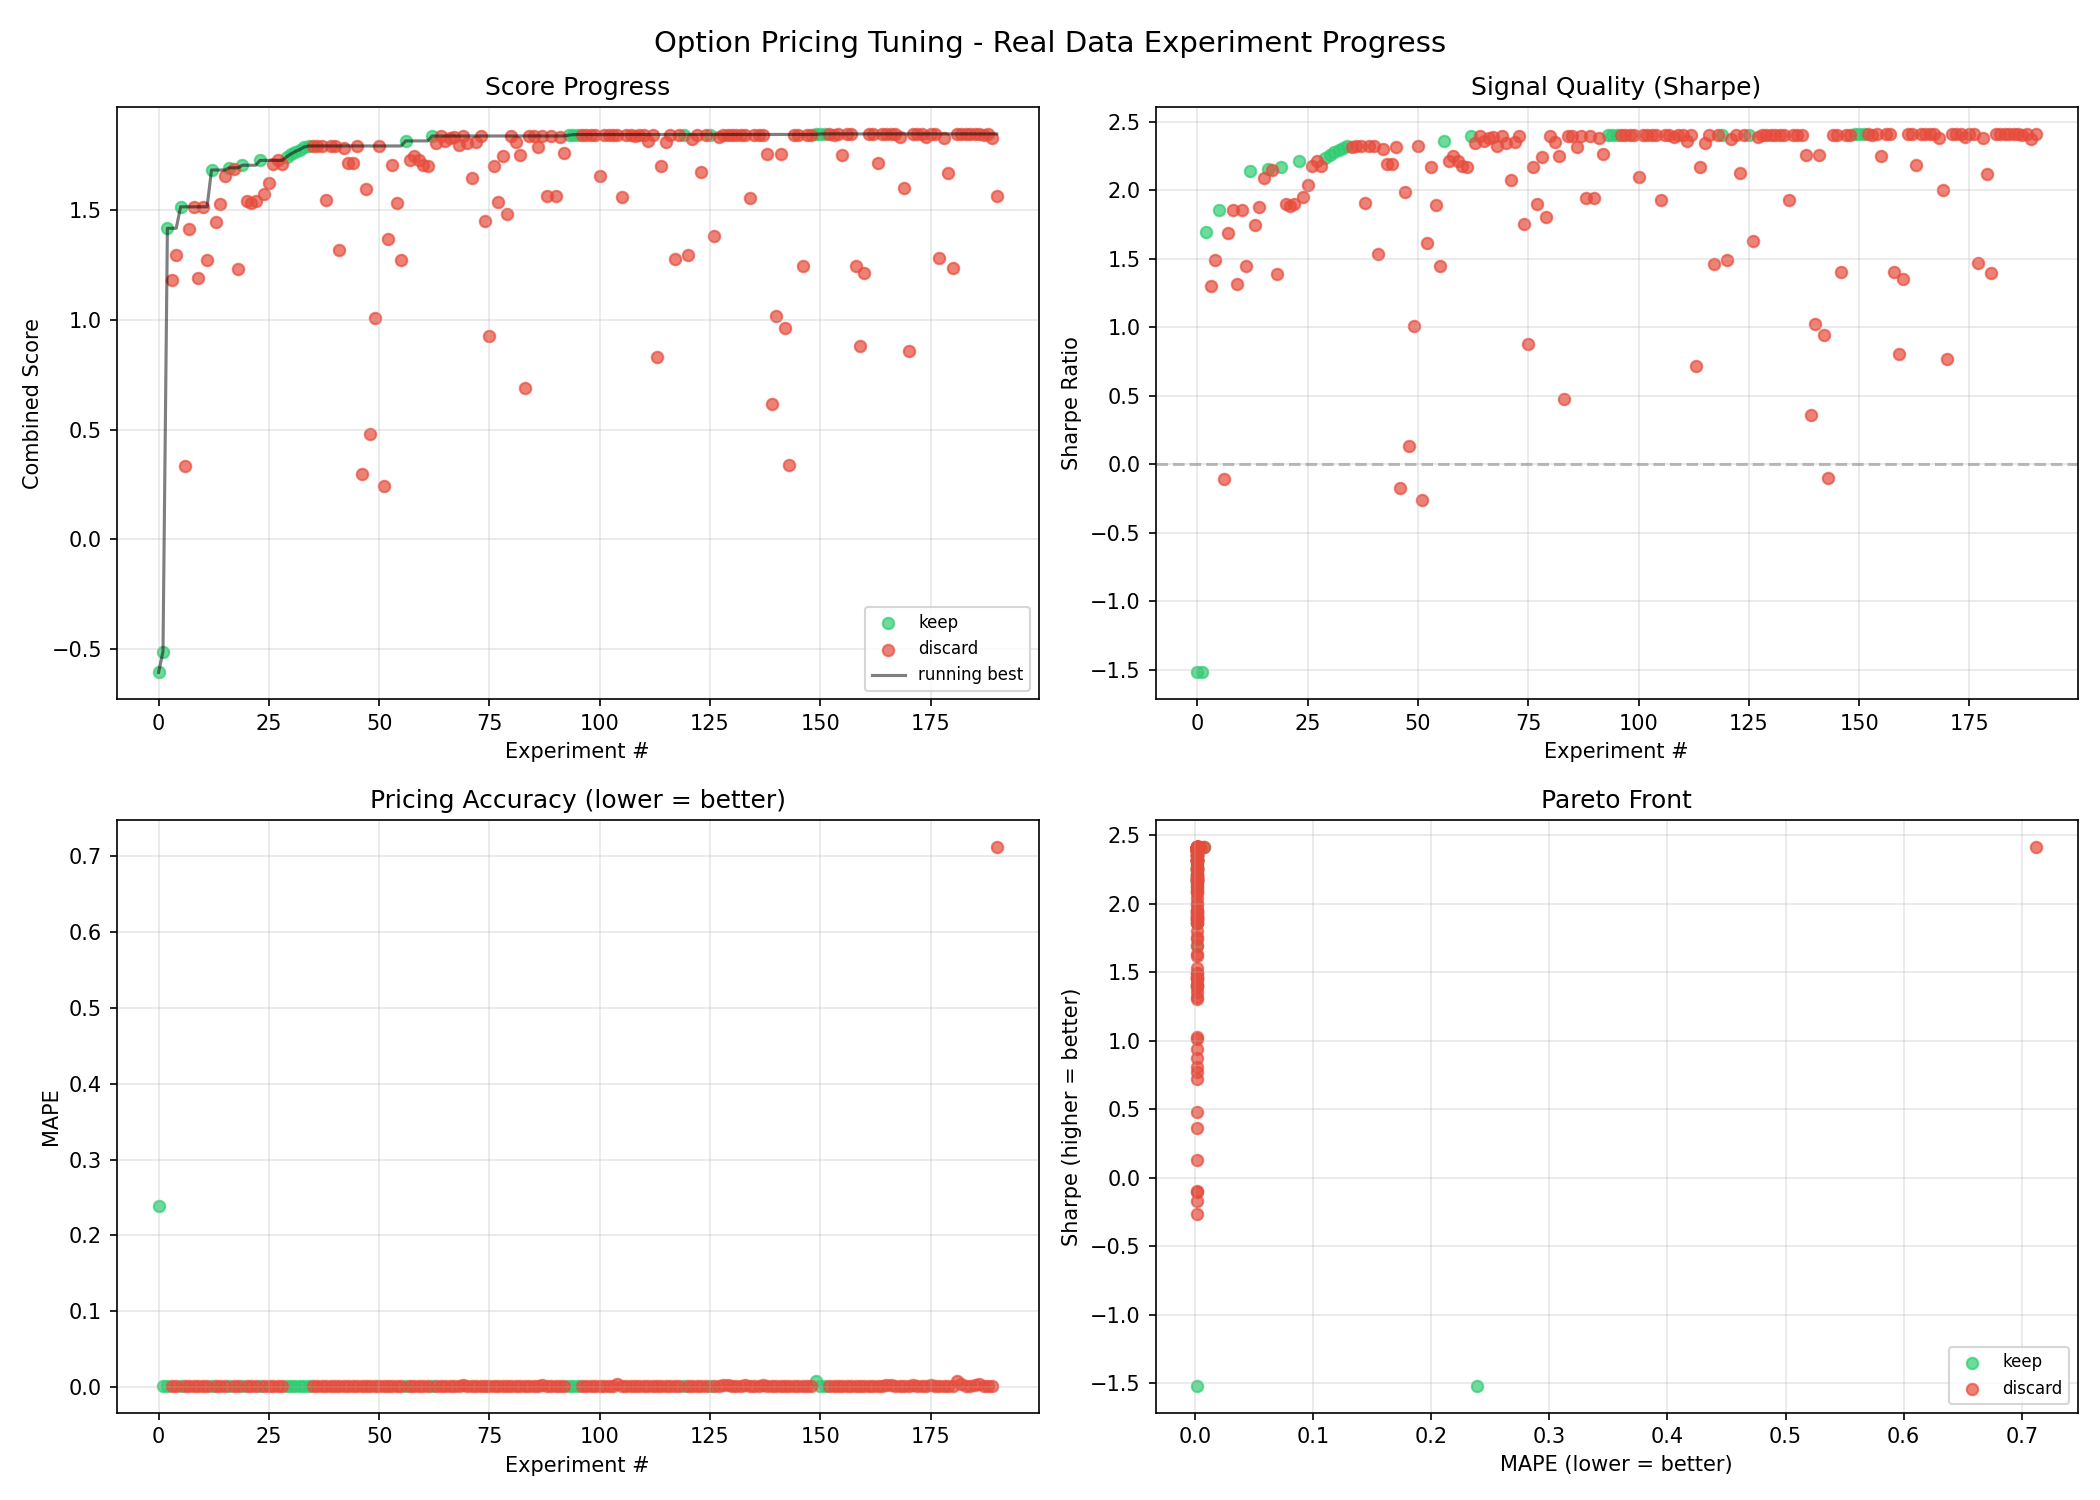
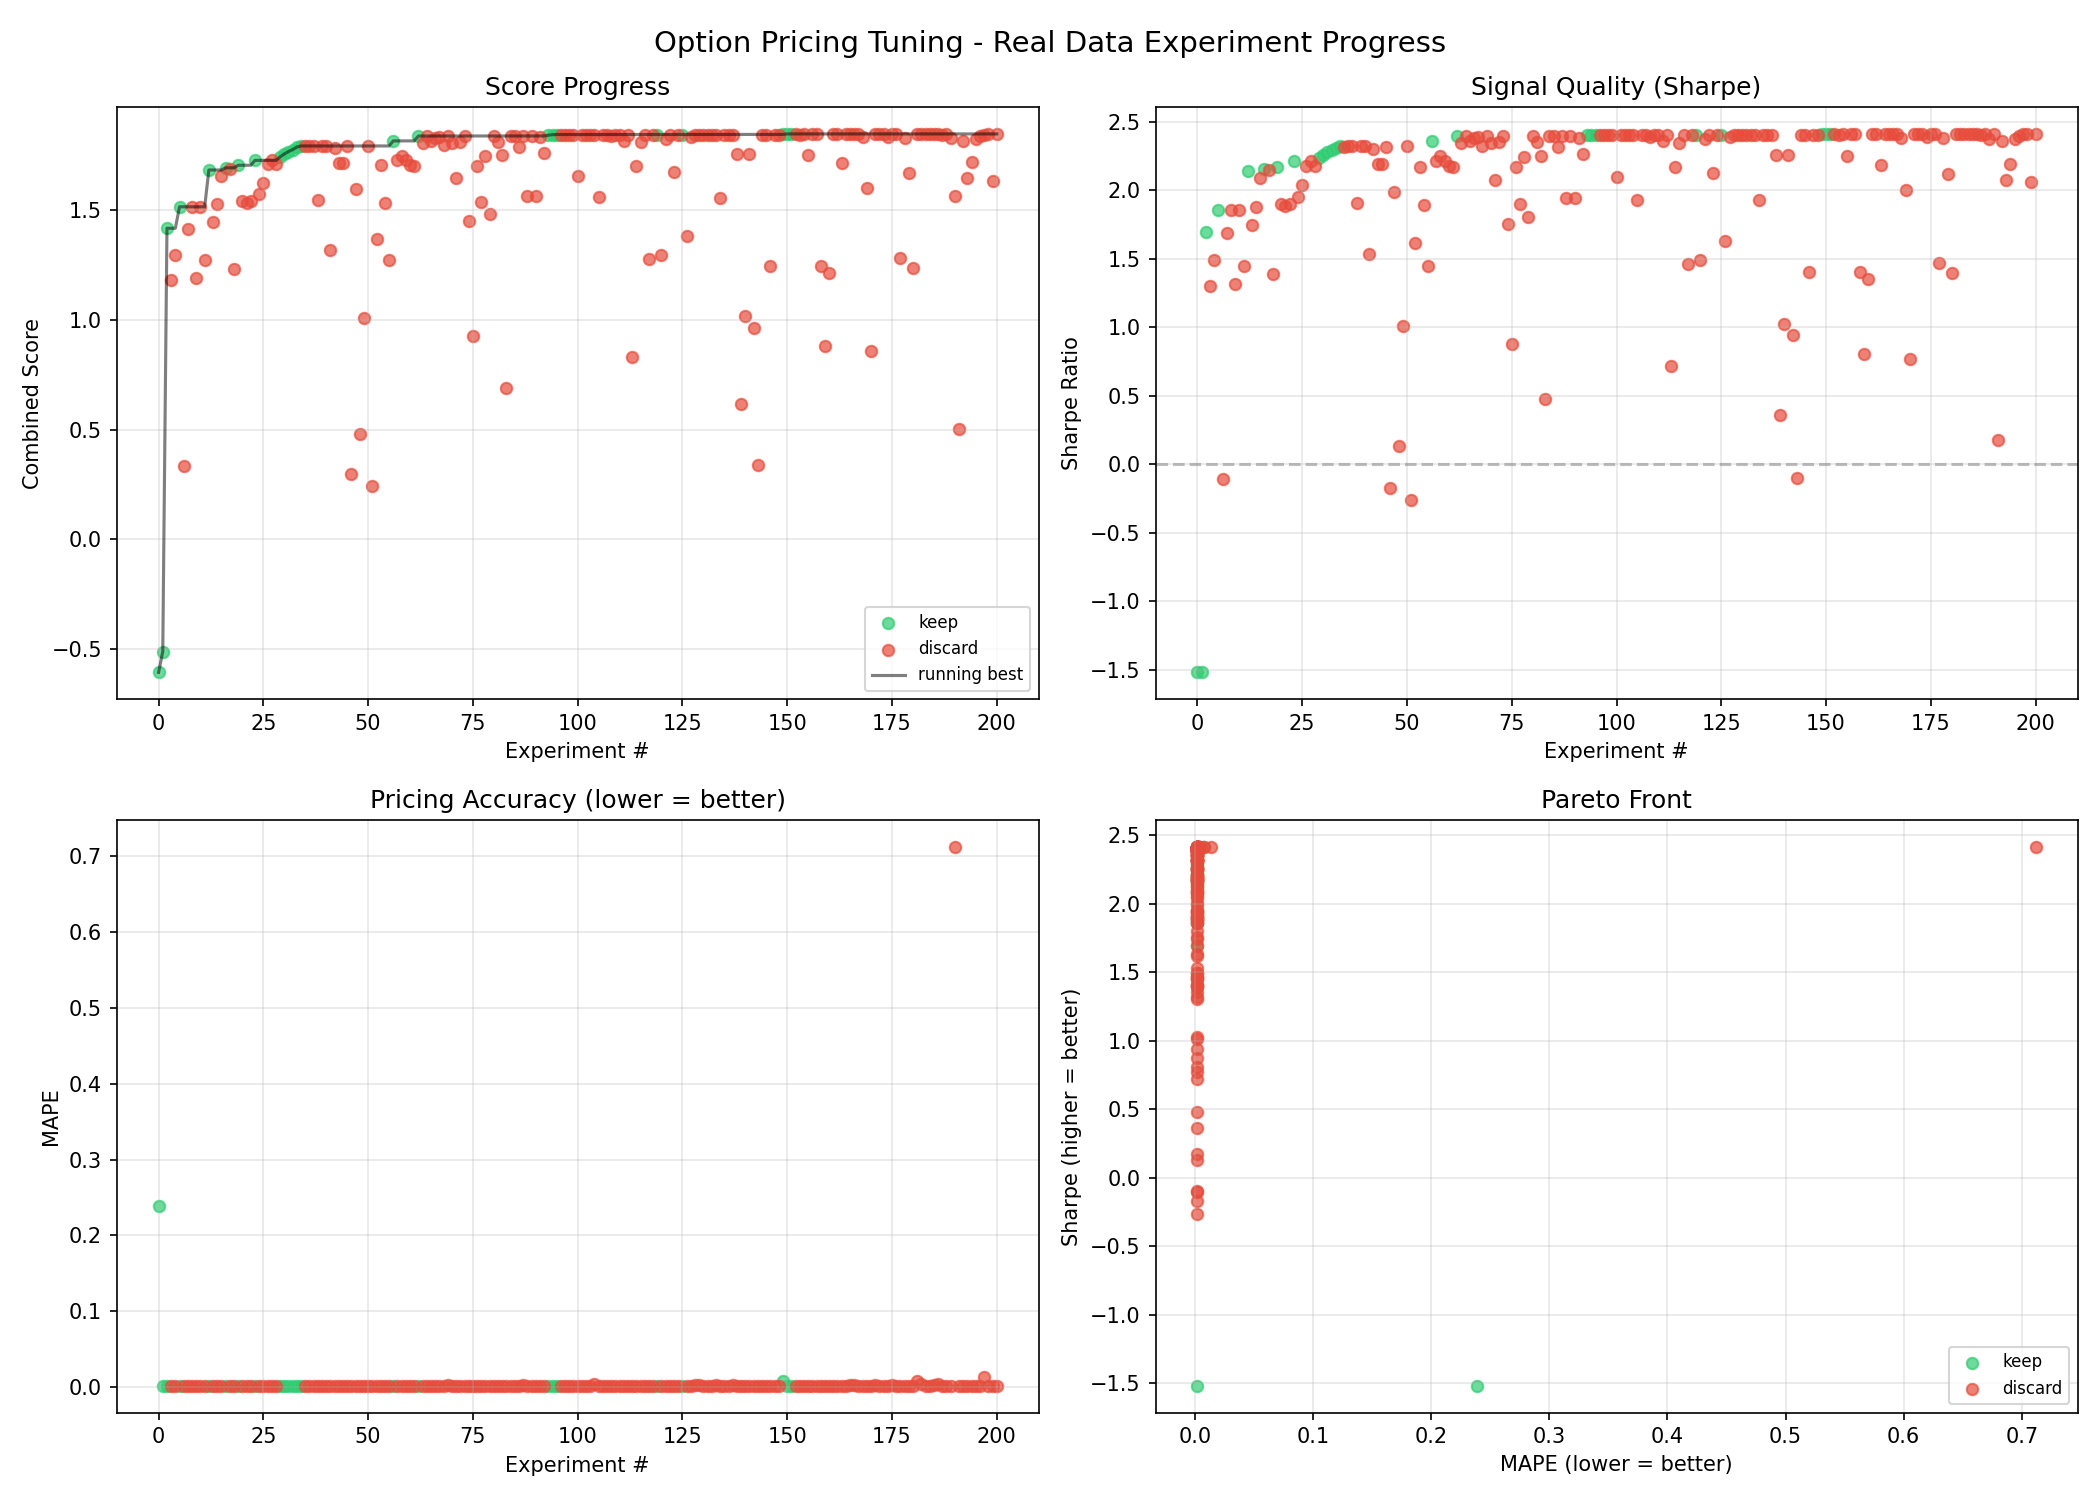
Log experiments 191-200: signal expansion attempts with near-miss analysis
Used debug analysis of all 207 near-miss trades (only 51% win rate,
-0.04% avg return) confirming current thresholds are near-optimal.
Tested: short signals, selective tier3 additions, IV/RV threshold
relaxation, low_scale shapes, signal IV iterations, pricing floors.
Best score remains 1.846 (Sharpe 2.41, 14 trades, 100% win rate).

diff --git a/README.md b/README.md
@@ -14,7 +14,7 @@ signals using **real stock market data** from Yahoo Finance.
 | MAPE | 0.002026 |
 | Win Rate | 100.0% |
 | Trades | 14 |
-| Experiments | 191 (24 kept) |
+| Experiments | 201 (24 kept) |
 
 ## How It Works
 
